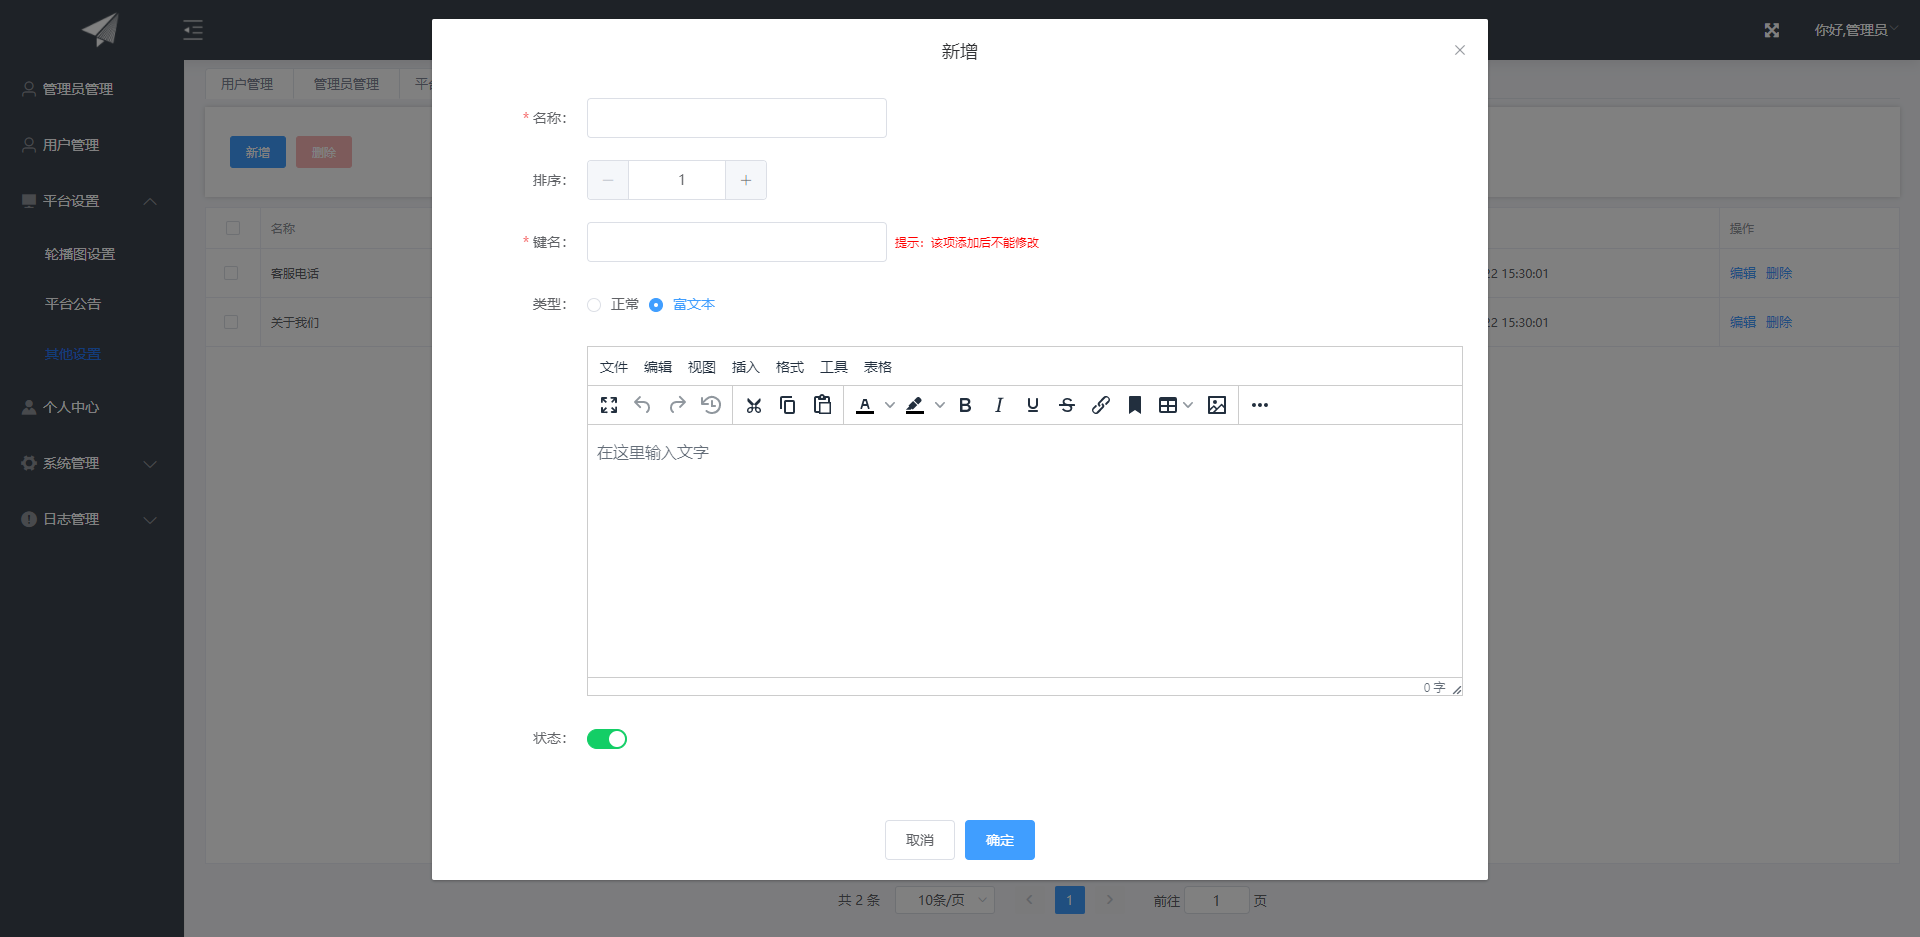
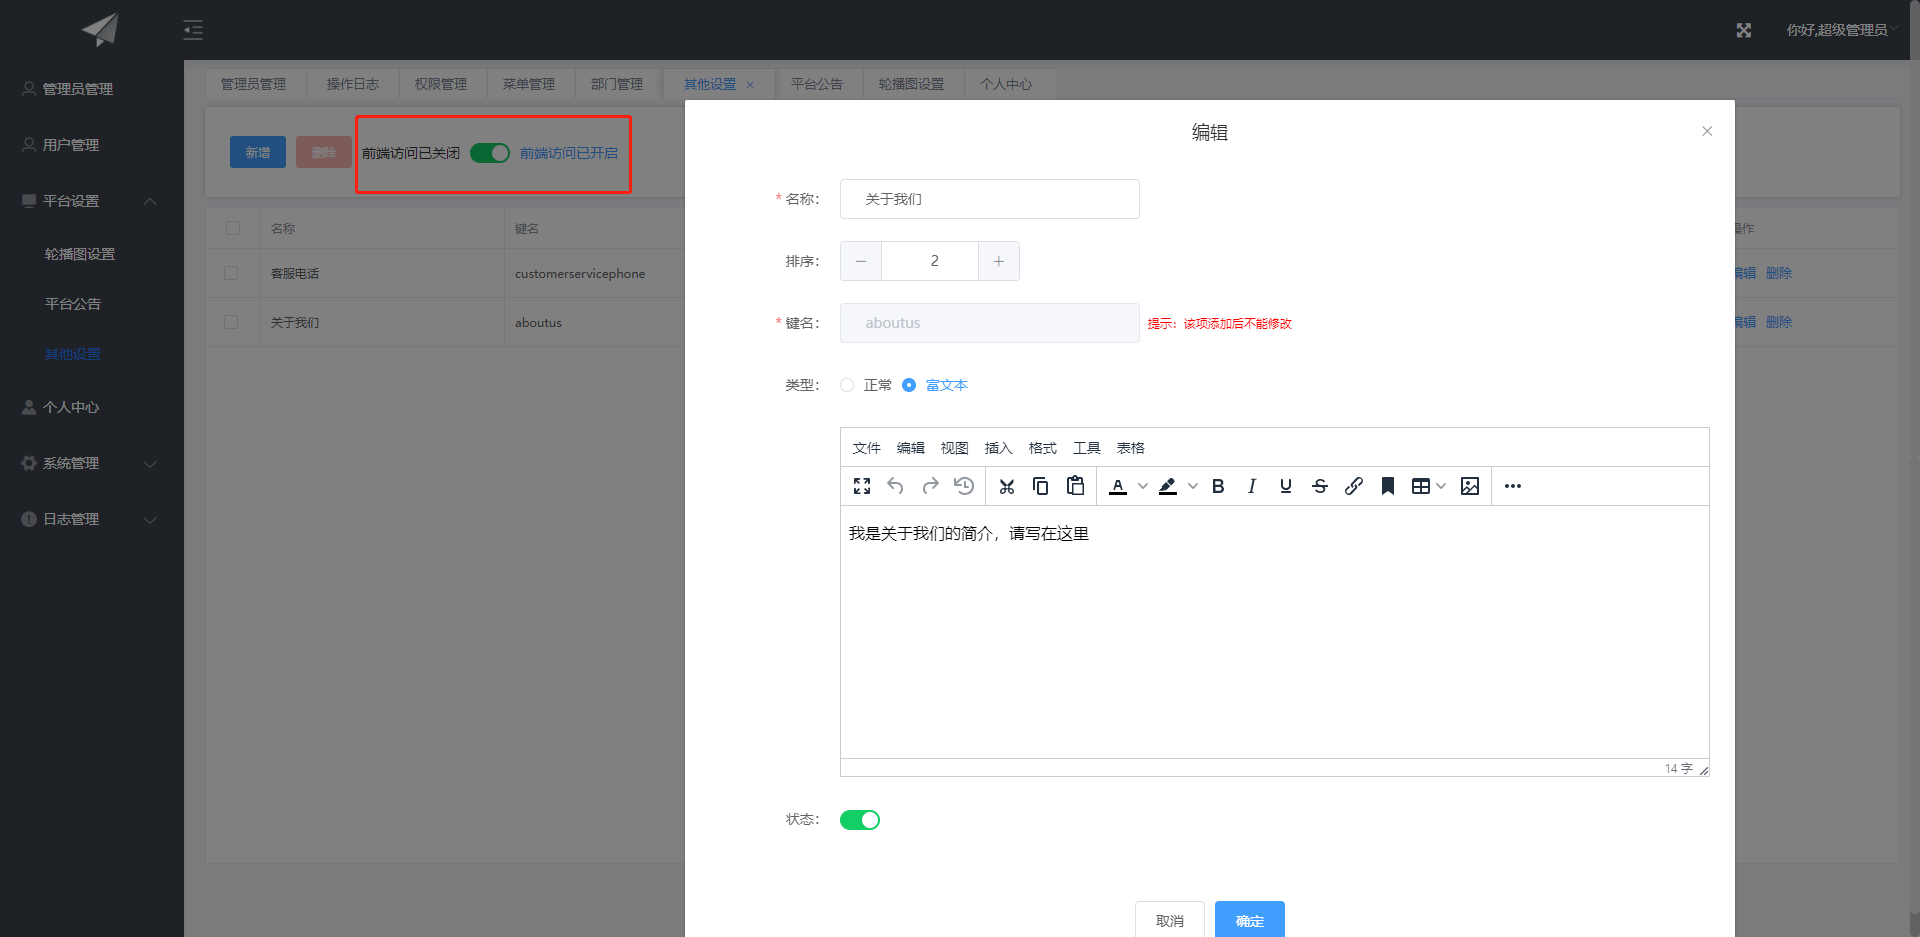
新增一键关闭前端API方法功能

diff --git a/frontend/src/views/platformSettings/platformSettingsother.vue b/frontend/src/views/platformSettings/platformSettingsother.vue
@@ -8,6 +8,9 @@
                 <el-form-item label="">
                     <el-button size="small" @click="handleDelete" type="danger" :disabled="multiple" v-show="isShowBtn('platformSettingsother','其他设置','Delete')">删除</el-button>
                 </el-form-item>
+                <el-form-item label="">
+                    <el-switch v-model="is_allow_fronted" active-color="#13ce66" inactive-color="#ff4949" active-text="前端访问已开启" inactive-text="前端访问已关闭"  @change="handleSuperOperate"></el-switch>
+                </el-form-item>
             </el-form>
         </div>
         <div class="table">
@@ -47,7 +50,7 @@
     import addModule from "./components/addModuleOther";
     import Pagination from "@/components/Pagination";
     import {dateFormats} from "@/utils/util";
-    import {platformsettingsOther,platformsettingsOtherDelete} from '@/api/api'
+    import {platformsettingsOther,platformsettingsOtherDelete,superOerateGet,superOerateSet} from '@/api/api'
     export default {
         components:{
             Pagination,
@@ -69,6 +72,7 @@
                     page: 1,
                     limit: 10,
                 },
+                is_allow_fronted:true,
                 pageparm: {
                     page: 1,
                     limit: 10,
@@ -136,6 +140,44 @@
                     })
                 }
             },
+            //关闭前端方法开始----------------
+            getSuperOperate(){
+                let vm = this
+                superOerateGet().then(res => {
+                     if(res.code ==2000) {
+                         vm.is_allow_fronted = res.data.data.is_allow
+                     }else{
+                         vm.$message.warning("获取前端访问权限失败")
+                     }
+                 })
+            },
+            handleSuperOperate(){
+                let vm = this
+                let flat = vm.is_allow_fronted
+                vm.is_allow_fronted = !vm.is_allow_fronted
+                let temp_is_allow = 1
+                vm.$confirm('确定要改变前端访问状态吗？',{
+                        closeOnClickModal:false
+                    }).then(res=>{
+                        flat ? vm.is_allow_fronted = true : vm.is_allow_fronted = false
+                        if(vm.is_allow_fronted){
+                            temp_is_allow = 1
+                        }else{
+                            temp_is_allow = 0
+                        }
+                        superOerateSet({is_allow:temp_is_allow}).then(res => {
+                             if(res.code ==2000) {
+                                 vm.is_allow_fronted = res.data.data.is_allow
+                                 vm.$message.warning(res.msg)
+                             }else{
+                                 vm.$message.warning(res.msg)
+                             }
+                         })
+                    }).catch(()=>{
+
+                    })
+            },
+            //关闭前端方法结束----------------
 
             callFather(parm) {
                 this.formInline.page = parm.page
@@ -174,6 +216,7 @@
         },
         created() {
             this.getData()
+            this.getSuperOperate()
         },
         timers(val){
             if (val) {

diff --git a/frontend/src/api/api.js b/frontend/src/api/api.js
@@ -202,3 +202,8 @@ export const platformsettingsOtherDelete= params => ajaxDelete({url: `platformse
 // 平台设置 图片上传
 export const platformsettingsUploadPlatformImg= params => uploadImg({url: `platformsettings/uploadplatformimg/`,params})
 
+//前端访问操作 获取
+export const superOerateGet= params => ajaxGet({url: `super/operate/`,params})
+//前端访问操作 设置
+export const superOerateSet= params => ajaxPost({url: `super/operate/`,params})
+

diff --git a/backend/utils/redirect_middleware.py b/backend/utils/redirect_middleware.py
@@ -1,0 +1,69 @@
+"""
+关闭前端api访问
+"""
+
+from django.http import HttpResponseForbidden
+from utils.request_util import get_request_path
+from config import ALLOW_FRONTEND
+from rest_framework.permissions import IsAuthenticated
+from rest_framework_simplejwt.authentication import JWTAuthentication
+from rest_framework.views import APIView
+from utils.jsonResponse import SuccessResponse,ErrorResponse
+from utils.common import get_parameter_dic
+
+IS_ALLOW_FRONTEND = ALLOW_FRONTEND
+
+class RedirectResponseMiddleWare:
+    def __init__(self,get_response):
+        self.get_response = get_response
+
+    def __call__(self, request):
+        request_path = get_request_path(request)
+        if not IS_ALLOW_FRONTEND:
+            if '/api/app/' in  request_path or '/api/xcx/' in request_path:
+                return HttpResponseForbidden('<h1>Access Forbidden 301</h1>')
+        response = self.get_response(request)
+        return response
+
+
+class OperateAllowFrontendView(APIView):
+    """
+    超级管理员动态启用/禁用/获取 禁止前端接口访问
+    get:
+    获取当前是否禁止前端访问的值
+    【参数】无
+    post:
+    设置当前是否禁止前端访问
+    【参数】is_allow = 1 允许访问  0 禁止访问
+    """
+    permission_classes = [IsAuthenticated]
+    authentication_classes = [JWTAuthentication]
+
+    def get(self, request):
+        """
+        获取当前是否禁止前端访问的值
+        """
+        data = {
+            'is_allow':IS_ALLOW_FRONTEND
+        }
+        return SuccessResponse(data=data,msg='success')
+
+    def post(self,request):
+        """
+        设置当前是否禁止前端访问
+        """
+        user = request.user
+        if user.is_superuser:
+            global IS_ALLOW_FRONTEND
+            is_allow = int(get_parameter_dic(request)['is_allow'])
+
+            if is_allow:
+                IS_ALLOW_FRONTEND = True
+            else:
+                IS_ALLOW_FRONTEND = False
+            data = {
+                'is_allow': IS_ALLOW_FRONTEND
+            }
+            return SuccessResponse(data=data,msg='设置成功')
+        else:
+            return ErrorResponse(msg="您没有权限操作")

diff --git a/backend/application/urls.py b/backend/application/urls.py
@@ -43,6 +43,9 @@ from utils.streamingmedia_response import streamingmedia_serve
 #部署vue
 from django.views.generic import TemplateView
 
+#是否允许前端接口访问
+from utils.redirect_middleware import OperateAllowFrontendView
+
 schema_view = get_schema_view(
     openapi.Info(
         title="django-vue-lyadmin API",
@@ -104,6 +107,9 @@ urlpatterns = [
     re_path(r'^api/areas/$', ProvinceAreasView.as_view(),name='省市区三级联动获取省'),
     re_path(r'^api/areas/(?P<pk>[1-9]\d*)/$', SubAreasView.as_view(),name='省市区三级联动获取市/区'),
     path('api/getaddressaccuracy/', GetAddressAccuracyView.as_view(), name='后台根据详细地址获取经纬度'),
+
+    #是否允许前端接口访问(临时操作，重启后无效)
+    path('api/super/operate/', OperateAllowFrontendView.as_view(), name='超级管理员动态操作是否允许前端api接口访问'),
 
     #集成部署后端管理页面
     path('downloadapp/',downloadapp ,name='前端APP下载页'),

diff --git a/backend/application/settings.py b/backend/application/settings.py
@@ -74,6 +74,7 @@ MIDDLEWARE = [
     'django.contrib.messages.middleware.MessageMiddleware',
     'django.middleware.clickjacking.XFrameOptionsMiddleware',
     'utils.middleware.ApiLoggingMiddleware',#自定义日志中间件
+    'utils.redirect_middleware.RedirectResponseMiddleWare',#关闭前端接口访问重定向
 ]
 
 
@@ -461,6 +462,7 @@ API_MODEL_MAP = {
     "/token/": "登录模块",
     "/api/token/": "登录模块",
     "/api/system/operation_log/deletealllogs/": "日志清除",
+    "/api/super/operate/":"前端API关闭/开启",
 }
 # 表前缀
 TABLE_PREFIX = "lyadmin_"
